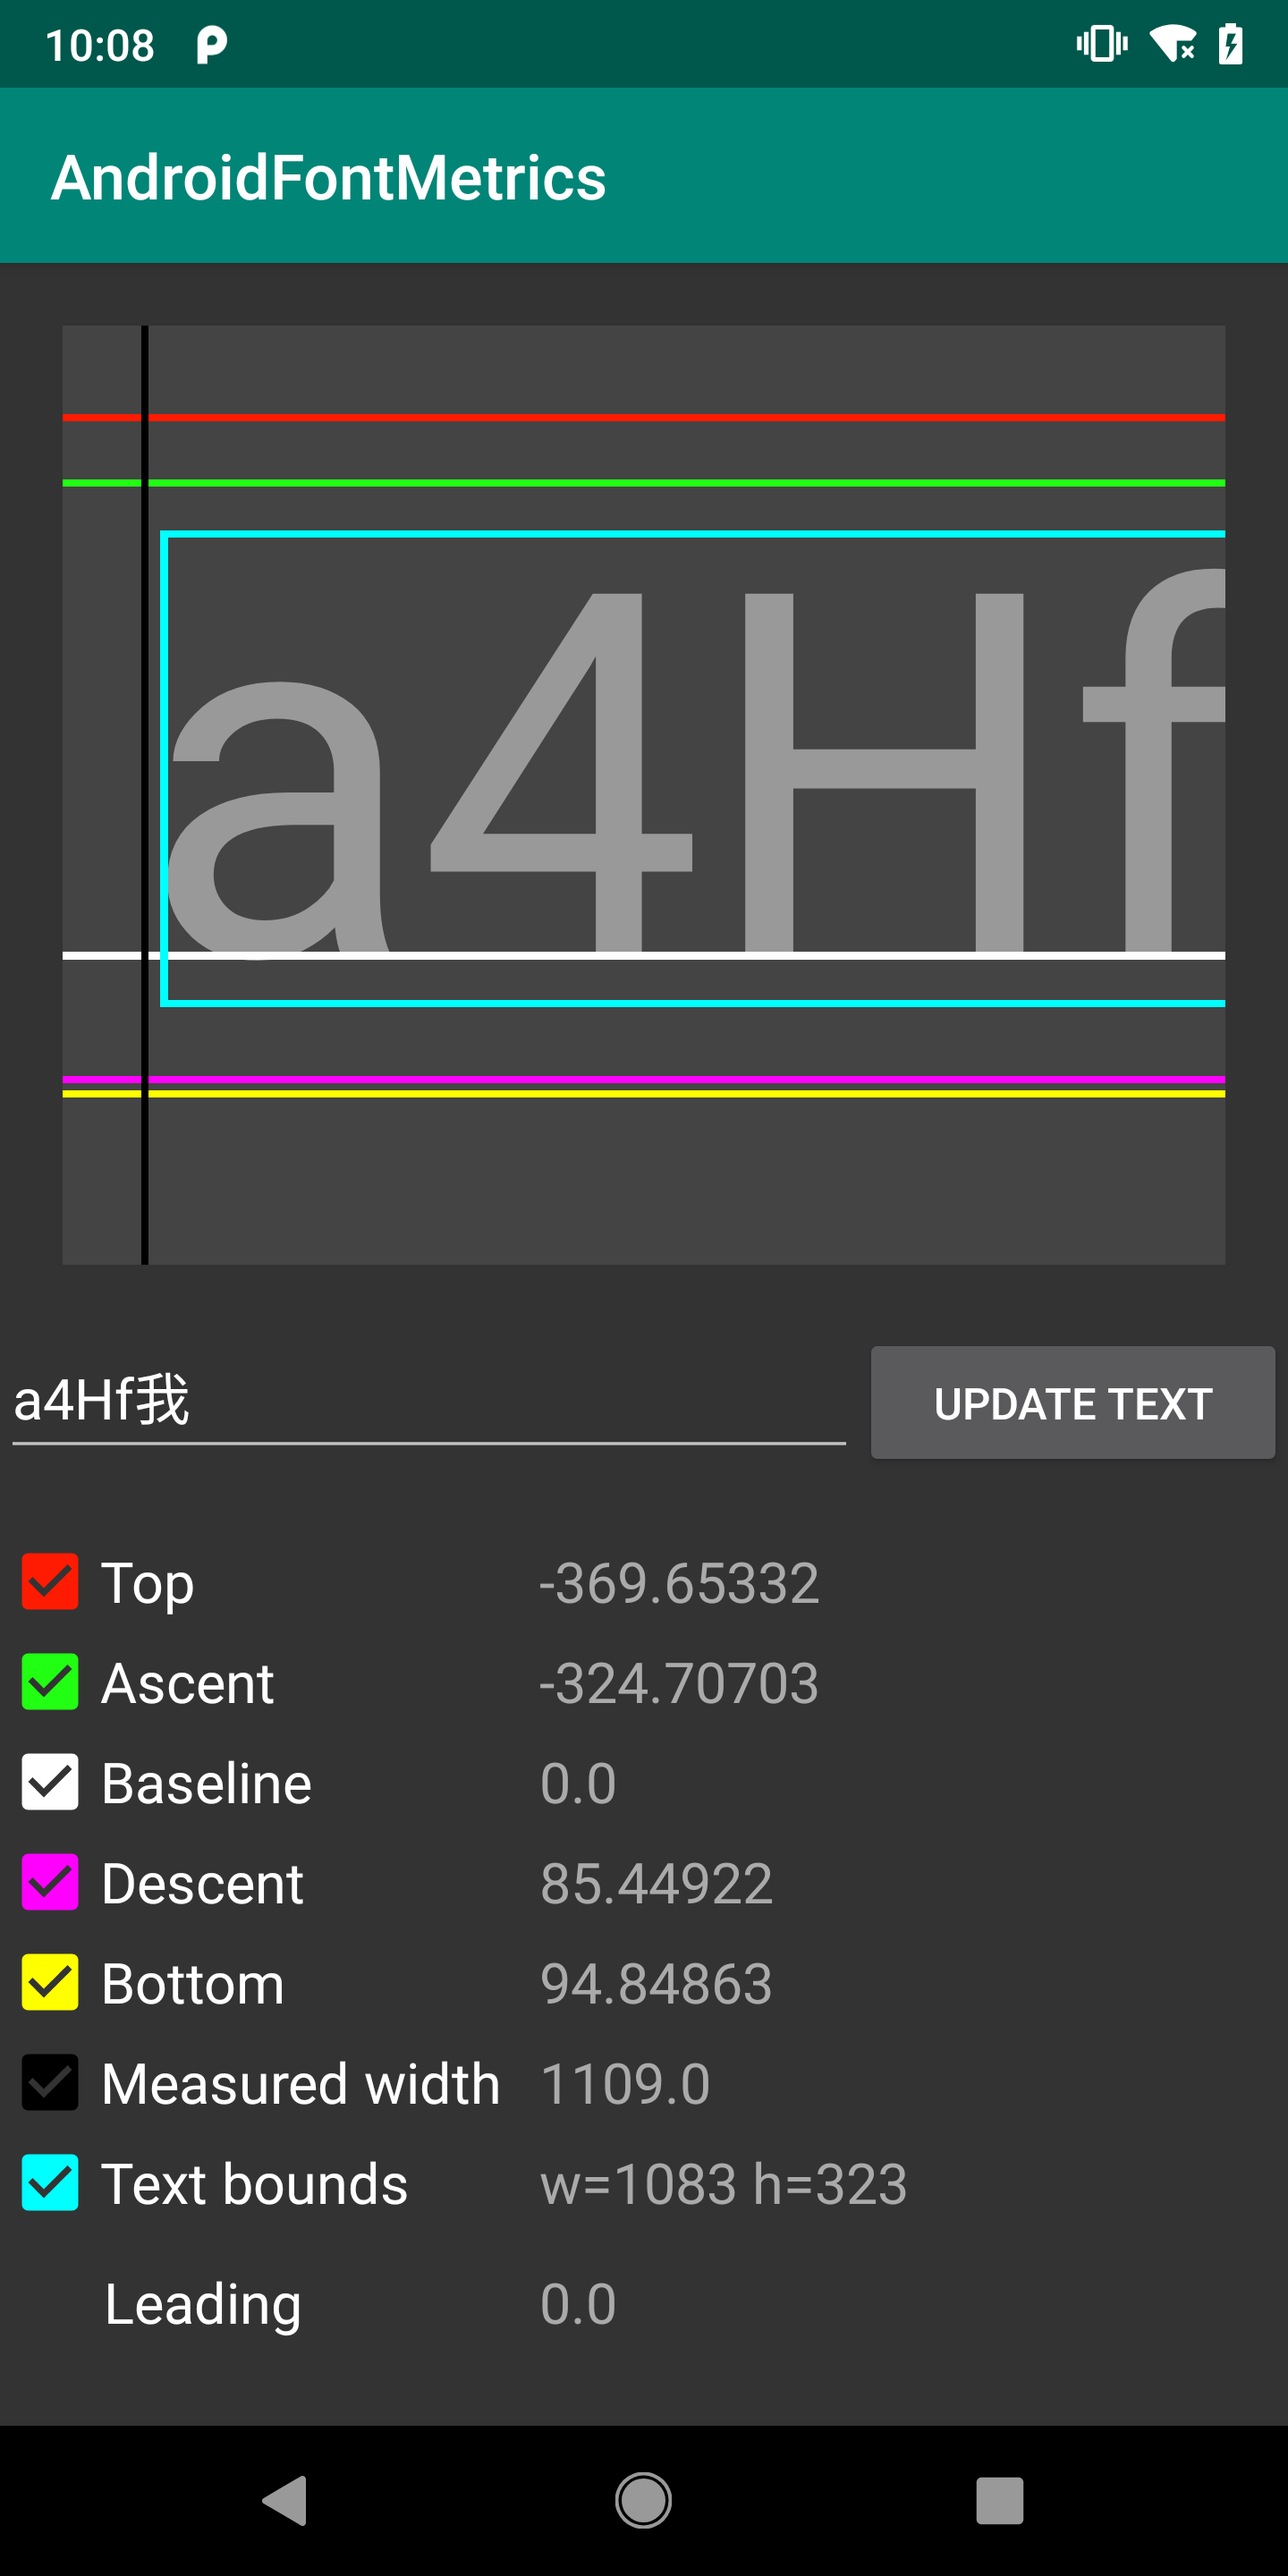
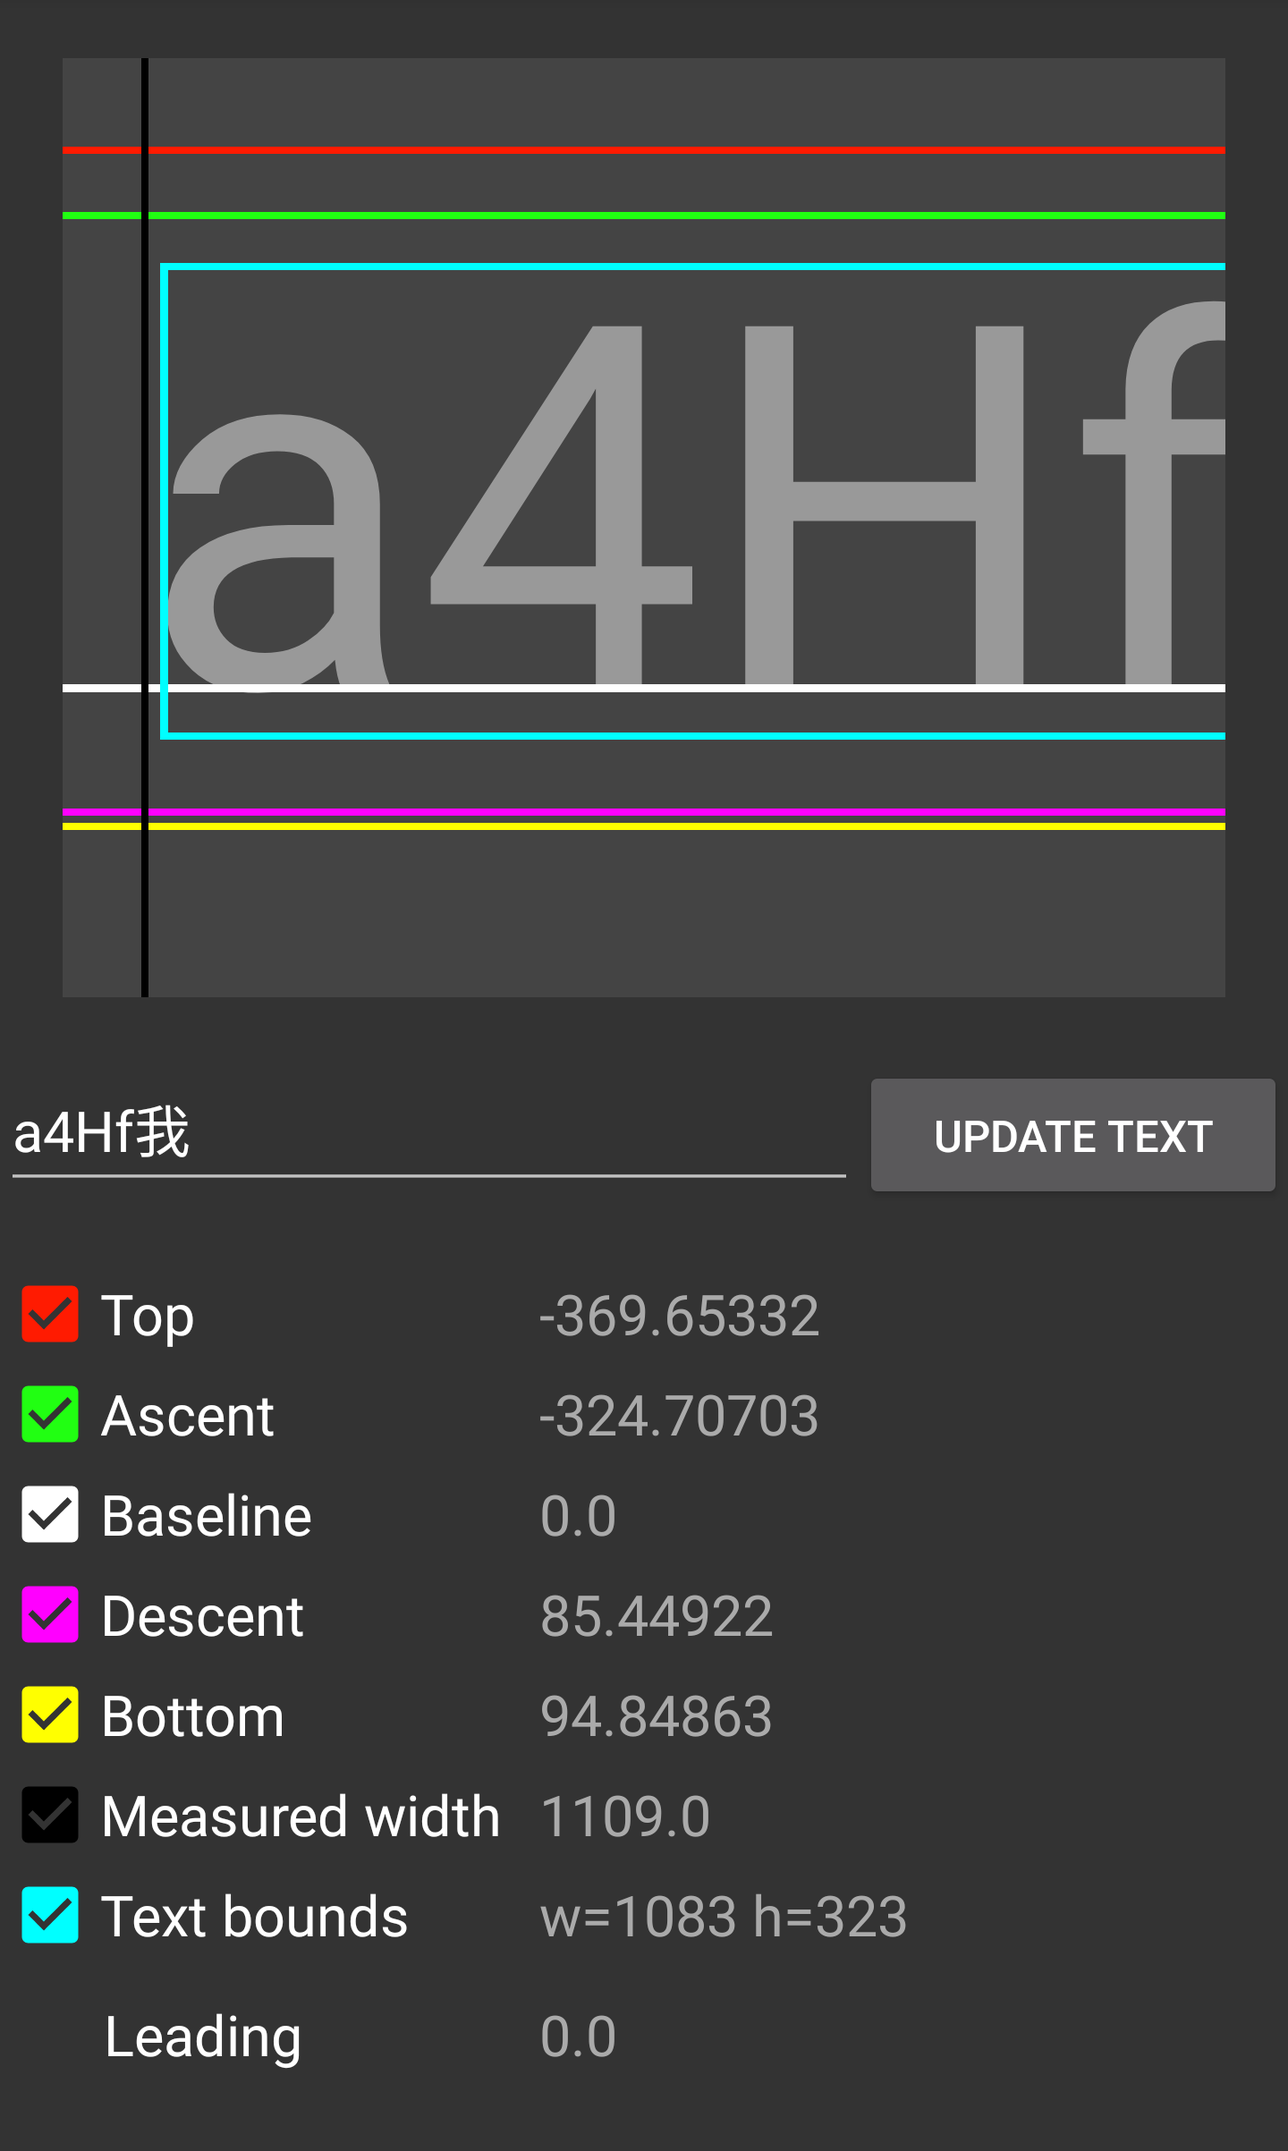
add img

diff --git a/app/src/main/java/io/github/hurshi/fontmetrics/MainActivity.kt b/app/src/main/java/io/github/hurshi/fontmetrics/MainActivity.kt
@@ -37,7 +37,7 @@ class MainActivity : AppCompatActivity() {
 
     private fun updateTextViews() {
         myFontMetricsView.setText(etTextString.text.toString())
-        myFontMetricsView.setTextSizeInPixels(350)
+        myFontMetricsView.setTextSizeInPixels(300)
         tvTop.text = myFontMetricsView.fontMetrics.top.toString()
         tvAscent.text = myFontMetricsView.fontMetrics.ascent.toString()
         tvBaseline.text = (0f).toString()

diff --git a/README.md b/README.md
@@ -1,7 +1,11 @@
 # Android FontMetrics
-An Android app for measuring and testing FontMetrics
+An Android app for measuring and testing FontMetrics forked from [suragch/AndroidFontMetrics](https://github.com/suragch/AndroidFontMetrics)
 
-![App preview](./imgs/screenshot.png?raw=true)
+| Normal                                         | TextView                                        |
+| ---------------------------------------------- | ----------------------------------------------- |
+| ![App preview](./imgs/screenshot.png?raw=true) | ![App preview](./imgs/screenshot2.png?raw=true) |
+
+
 
 This app was originally created and used for these Stack Overflow questions:
 
